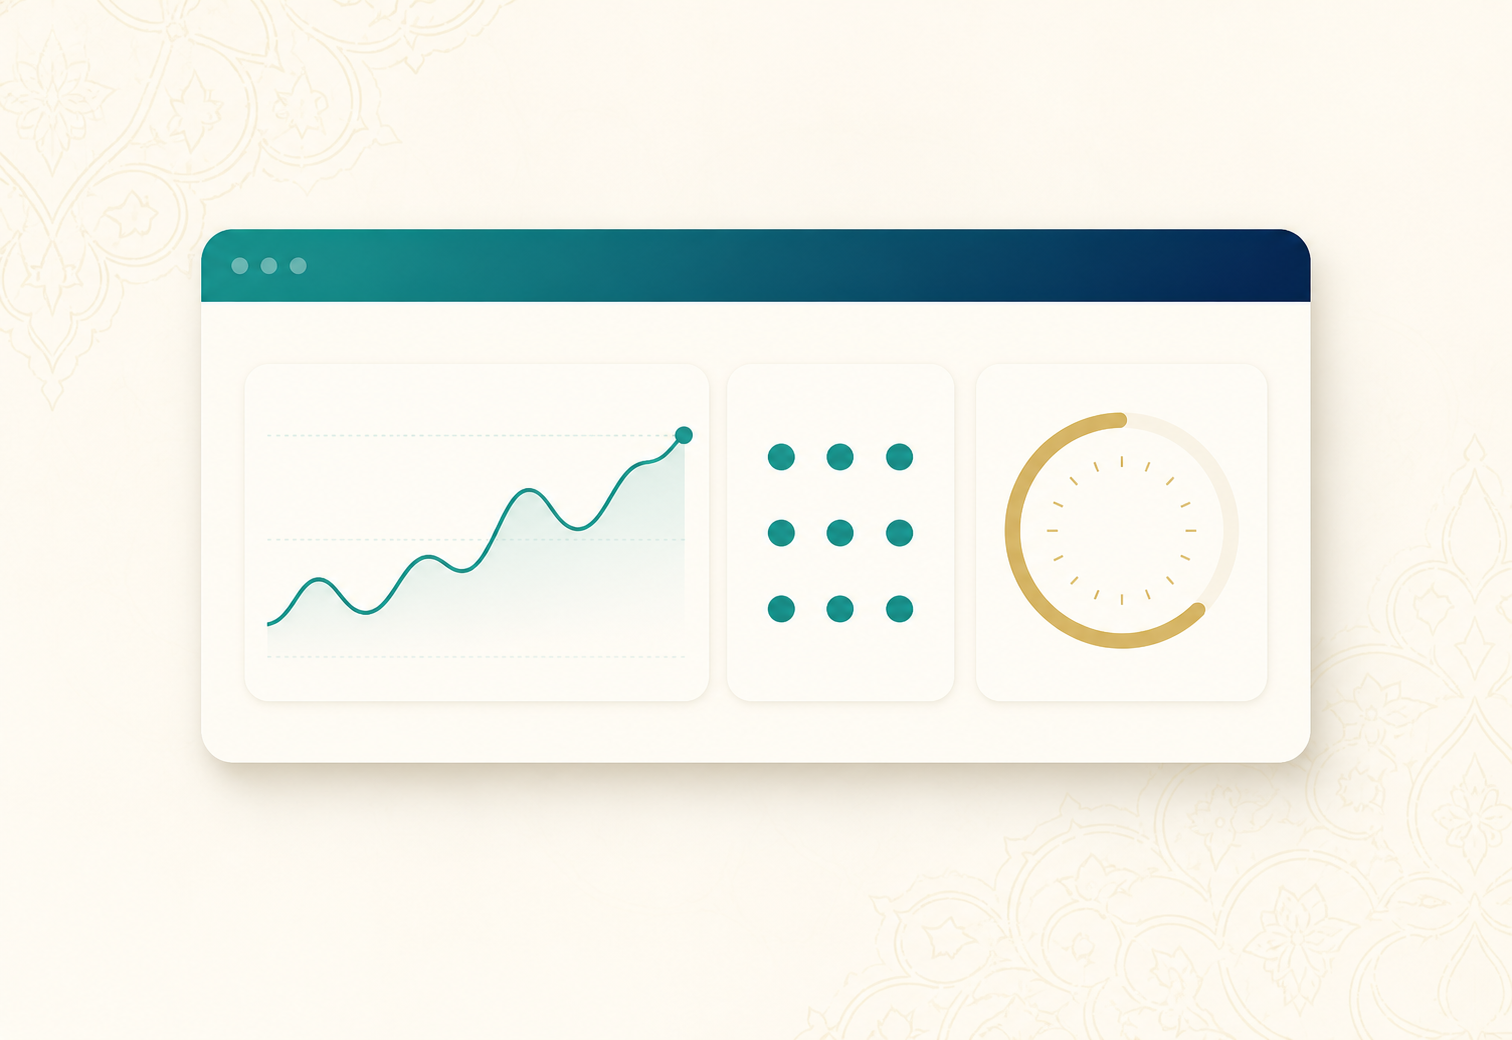
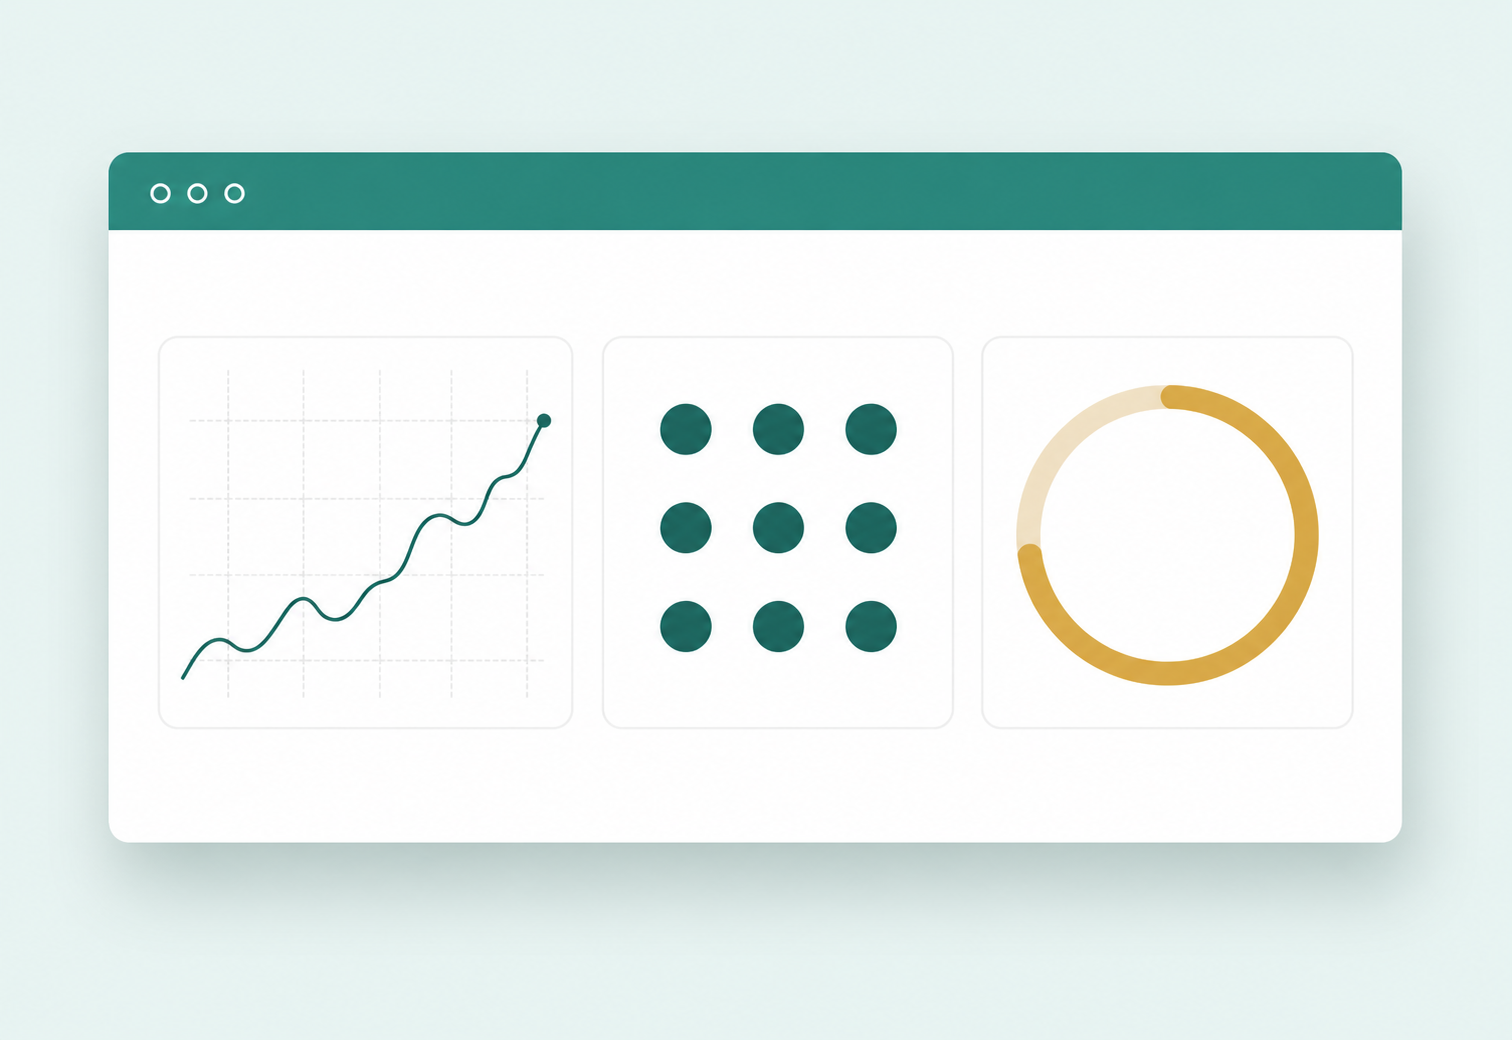
assets(nilou-network): hero-dashboard.png v3 — stronger contrast (#235)
operator 用更激进 codex prompt 重生成: 实心 teal header bar, 深 teal sparkline +
3×3 dot grid, gold gauge 8px stroke, pale teal #e8f0ee 背景 (替代 cream).

视觉对比 v2: card 内部内容现在在白卡上能清楚看到, 不再融为一体.

URL bump ?v=3 强制 CDN + 浏览器重新拉.

diff --git a/marketing/nilou-network/ja/index.html b/marketing/nilou-network/ja/index.html
@@ -22,7 +22,7 @@
   <link rel="preconnect" href="https://fonts.googleapis.com" />
   <link rel="preconnect" href="https://fonts.gstatic.com" crossorigin />
   <link href="https://fonts.googleapis.com/css2?family=Cormorant+Garamond:ital,wght@0,400;0,500;0,600;1,400;1,500&family=Inter:wght@300;400;500;600;700&family=Noto+Sans+JP:wght@400;500;700&family=Noto+Serif+JP:wght@400;500;600&display=swap" rel="stylesheet" />
-  <link rel="preload" as="image" href="../assets/hero-dashboard.png?v=2" fetchpriority="high" />
+  <link rel="preload" as="image" href="../assets/hero-dashboard.png?v=3" fetchpriority="high" />
   <link rel="stylesheet" href="../styles.css?v=20260504b" />
   <link rel="icon" href="../assets/lotus.svg" type="image/svg+xml" />
   <link rel="canonical" href="https://nilou.network/ja/" />
@@ -116,7 +116,7 @@
         </div>
 
         <div class="hero-mockup scroll-reveal" aria-hidden="true">
-          <img src="../assets/hero-dashboard.png?v=2" alt="" width="1600" height="1100" loading="eager" decoding="async" onerror="this.style.display='none';this.nextElementSibling.style.display='grid';" />
+          <img src="../assets/hero-dashboard.png?v=3" alt="" width="1600" height="1100" loading="eager" decoding="async" onerror="this.style.display='none';this.nextElementSibling.style.display='grid';" />
           <div class="hero-mockup-fallback" style="display:none;">
             <svg viewBox="0 0 200 200" fill="none" stroke="currentColor" stroke-width="1.5" stroke-linecap="round" aria-hidden="true">
               <g stroke-opacity="0.9"><path d="M100 20 C 130 50, 130 90, 100 100 C 70 90, 70 50, 100 20 Z"/><path d="M100 20 C 130 50, 130 90, 100 100 C 70 90, 70 50, 100 20 Z" transform="rotate(45 100 100)"/><path d="M100 20 C 130 50, 130 90, 100 100 C 70 90, 70 50, 100 20 Z" transform="rotate(90 100 100)"/><path d="M100 20 C 130 50, 130 90, 100 100 C 70 90, 70 50, 100 20 Z" transform="rotate(135 100 100)"/><path d="M100 20 C 130 50, 130 90, 100 100 C 70 90, 70 50, 100 20 Z" transform="rotate(180 100 100)"/><path d="M100 20 C 130 50, 130 90, 100 100 C 70 90, 70 50, 100 20 Z" transform="rotate(225 100 100)"/><path d="M100 20 C 130 50, 130 90, 100 100 C 70 90, 70 50, 100 20 Z" transform="rotate(270 100 100)"/><path d="M100 20 C 130 50, 130 90, 100 100 C 70 90, 70 50, 100 20 Z" transform="rotate(315 100 100)"/></g>

diff --git a/marketing/nilou-network/zh/index.html b/marketing/nilou-network/zh/index.html
@@ -22,7 +22,7 @@
   <link rel="preconnect" href="https://fonts.googleapis.com" />
   <link rel="preconnect" href="https://fonts.gstatic.com" crossorigin />
   <link href="https://fonts.googleapis.com/css2?family=Cormorant+Garamond:ital,wght@0,400;0,500;0,600;1,400;1,500&family=Inter:wght@300;400;500;600;700&family=Noto+Sans+SC:wght@400;500;700&family=Noto+Serif+SC:wght@400;500;600&display=swap" rel="stylesheet" />
-  <link rel="preload" as="image" href="../assets/hero-dashboard.png?v=2" fetchpriority="high" />
+  <link rel="preload" as="image" href="../assets/hero-dashboard.png?v=3" fetchpriority="high" />
   <link rel="stylesheet" href="../styles.css?v=20260504b" />
   <link rel="icon" href="../assets/lotus.svg" type="image/svg+xml" />
   <link rel="canonical" href="https://nilou.network/zh/" />
@@ -116,7 +116,7 @@
         </div>
 
         <div class="hero-mockup scroll-reveal" aria-hidden="true">
-          <img src="../assets/hero-dashboard.png?v=2" alt="" width="1600" height="1100" loading="eager" decoding="async" onerror="this.style.display='none';this.nextElementSibling.style.display='grid';" />
+          <img src="../assets/hero-dashboard.png?v=3" alt="" width="1600" height="1100" loading="eager" decoding="async" onerror="this.style.display='none';this.nextElementSibling.style.display='grid';" />
           <div class="hero-mockup-fallback" style="display:none;">
             <svg viewBox="0 0 200 200" fill="none" stroke="currentColor" stroke-width="1.5" stroke-linecap="round" aria-hidden="true">
               <g stroke-opacity="0.9"><path d="M100 20 C 130 50, 130 90, 100 100 C 70 90, 70 50, 100 20 Z"/><path d="M100 20 C 130 50, 130 90, 100 100 C 70 90, 70 50, 100 20 Z" transform="rotate(45 100 100)"/><path d="M100 20 C 130 50, 130 90, 100 100 C 70 90, 70 50, 100 20 Z" transform="rotate(90 100 100)"/><path d="M100 20 C 130 50, 130 90, 100 100 C 70 90, 70 50, 100 20 Z" transform="rotate(135 100 100)"/><path d="M100 20 C 130 50, 130 90, 100 100 C 70 90, 70 50, 100 20 Z" transform="rotate(180 100 100)"/><path d="M100 20 C 130 50, 130 90, 100 100 C 70 90, 70 50, 100 20 Z" transform="rotate(225 100 100)"/><path d="M100 20 C 130 50, 130 90, 100 100 C 70 90, 70 50, 100 20 Z" transform="rotate(270 100 100)"/><path d="M100 20 C 130 50, 130 90, 100 100 C 70 90, 70 50, 100 20 Z" transform="rotate(315 100 100)"/></g>

diff --git a/marketing/nilou-network/en/index.html b/marketing/nilou-network/en/index.html
@@ -22,7 +22,7 @@
   <link rel="preconnect" href="https://fonts.googleapis.com" />
   <link rel="preconnect" href="https://fonts.gstatic.com" crossorigin />
   <link href="https://fonts.googleapis.com/css2?family=Cormorant+Garamond:ital,wght@0,400;0,500;0,600;1,400;1,500&family=Inter:wght@300;400;500;600;700&display=swap" rel="stylesheet" />
-  <link rel="preload" as="image" href="../assets/hero-dashboard.png?v=2" fetchpriority="high" />
+  <link rel="preload" as="image" href="../assets/hero-dashboard.png?v=3" fetchpriority="high" />
   <link rel="stylesheet" href="../styles.css?v=20260504b" />
   <link rel="icon" href="../assets/lotus.svg" type="image/svg+xml" />
   <link rel="canonical" href="https://nilou.network/en/" />
@@ -116,7 +116,7 @@
         </div>
 
         <div class="hero-mockup scroll-reveal" aria-hidden="true">
-          <img src="../assets/hero-dashboard.png?v=2" alt="" width="1600" height="1100" loading="eager" decoding="async" onerror="this.style.display='none';this.nextElementSibling.style.display='grid';" />
+          <img src="../assets/hero-dashboard.png?v=3" alt="" width="1600" height="1100" loading="eager" decoding="async" onerror="this.style.display='none';this.nextElementSibling.style.display='grid';" />
           <div class="hero-mockup-fallback" style="display:none;">
             <svg viewBox="0 0 200 200" fill="none" stroke="currentColor" stroke-width="1.5" stroke-linecap="round" aria-hidden="true">
               <g stroke-opacity="0.9"><path d="M100 20 C 130 50, 130 90, 100 100 C 70 90, 70 50, 100 20 Z"/><path d="M100 20 C 130 50, 130 90, 100 100 C 70 90, 70 50, 100 20 Z" transform="rotate(45 100 100)"/><path d="M100 20 C 130 50, 130 90, 100 100 C 70 90, 70 50, 100 20 Z" transform="rotate(90 100 100)"/><path d="M100 20 C 130 50, 130 90, 100 100 C 70 90, 70 50, 100 20 Z" transform="rotate(135 100 100)"/><path d="M100 20 C 130 50, 130 90, 100 100 C 70 90, 70 50, 100 20 Z" transform="rotate(180 100 100)"/><path d="M100 20 C 130 50, 130 90, 100 100 C 70 90, 70 50, 100 20 Z" transform="rotate(225 100 100)"/><path d="M100 20 C 130 50, 130 90, 100 100 C 70 90, 70 50, 100 20 Z" transform="rotate(270 100 100)"/><path d="M100 20 C 130 50, 130 90, 100 100 C 70 90, 70 50, 100 20 Z" transform="rotate(315 100 100)"/></g>
